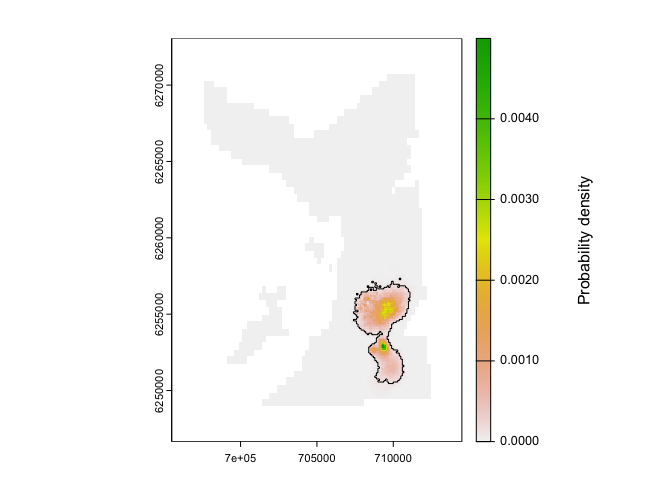
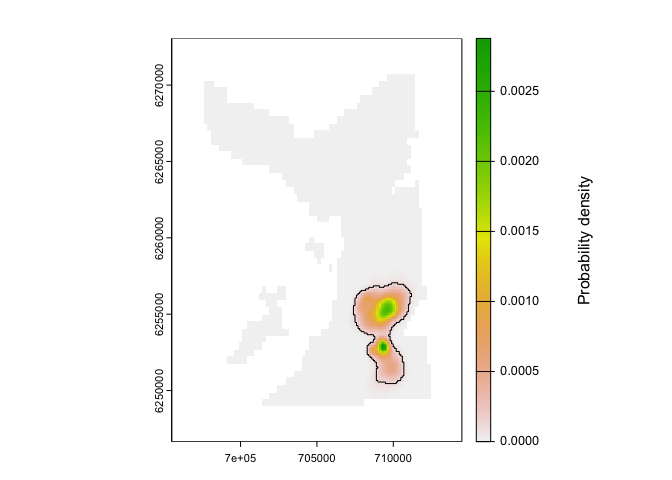
Use bw.h for speed

diff --git a/README.md b/README.md
@@ -499,7 +499,7 @@ smo <- patter:::pf_particles(.pf_obj = "smo")
 # Estimate UD
 ud <- map_dens(.map = map,
                .coord = smo$states,
-               sigma = spatstat.explore::bw.diggle, 
+               .sigma = bw.h, 
                .verbose = FALSE)$ud
 
 # Add home range
